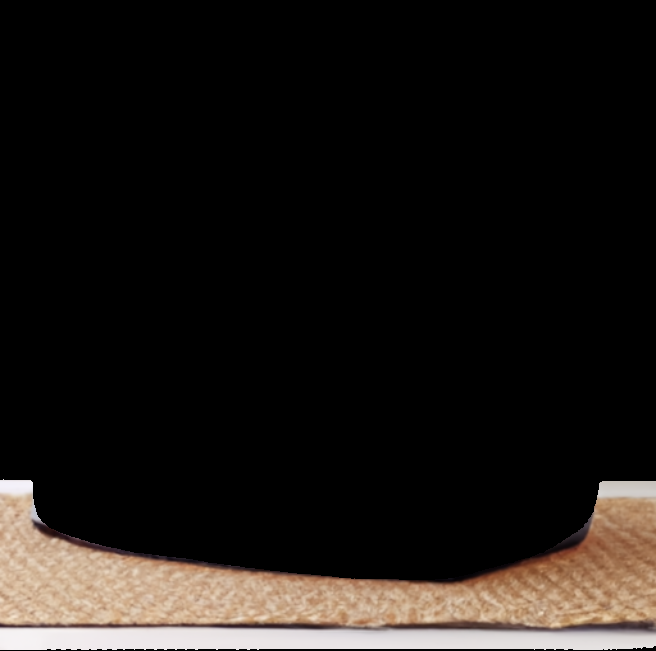
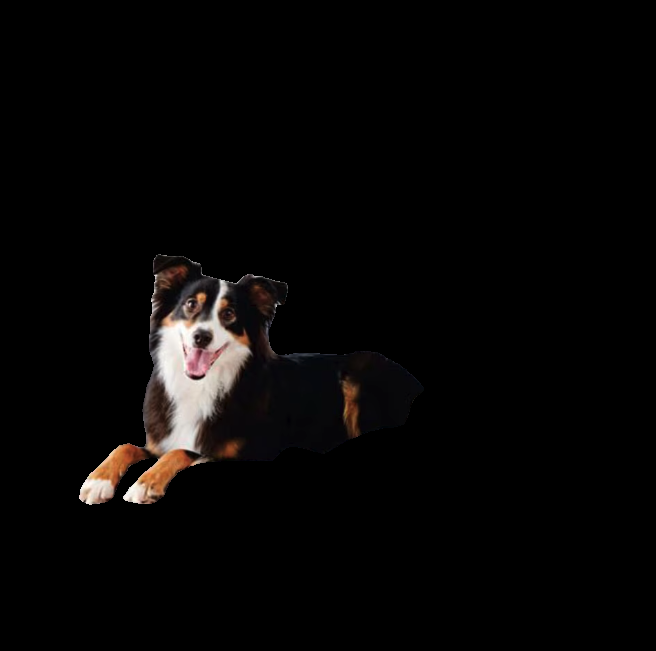
combine

Changed region(s): [[0.0, 0.7373, 1.0, 1.0], [0.122, 0.3994, 0.4878, 0.7988], [0.5183, 0.5837, 0.5488, 0.6759]]

diff --git a/static/script.js b/static/script.js
@@ -1,7 +1,3 @@
-
-
-
-
 const imageInput = document.querySelector('#image_input');
 const imgElement = document.querySelector('#display_image_img');
 const uploadedImageElement = document.querySelector('#uploaded_image');
@@ -162,7 +158,16 @@ if (nextButtonStep1) {
                 var response = JSON.parse(xhr.responseText);
                 if (response.success) {
                   // Images saved successfully, redirect to the next page
-                  window.location.href = '/third-page';
+                  var xhrCombine = new XMLHttpRequest();
+                  xhrCombine.open('POST', '/combine-images', true);
+                  xhrCombine.setRequestHeader('Content-Type', 'application/x-www-form-urlencoded; charset=UTF-8');
+                  xhrCombine.onreadystatechange = function () {
+                    if (xhrCombine.readyState === 4 && xhrCombine.status === 200) {
+                      localStorage.setItem('combinedImageUrl', xhrCombine.responseText);
+                      window.location.href = '/forth-page';
+                    }
+                  }
+                  xhrCombine.send("");
                 } else {
                   // Handle error case
                   console.log('Error: Images could not be saved');
@@ -405,3 +410,13 @@ nextButtonStep3.addEventListener('click', function() {
   });
 });
 
+
+window.addEventListener('load', (event) => {
+  const combinedImageUrl = localStorage.getItem('combinedImageUrl');
+  if (combinedImageUrl) {
+    const imgElement = document.getElementById('uploaded_image'); // replace 'combined_image' with the actual id of your <img> tag
+    if (imgElement) {
+      imgElement.src = combinedImageUrl;
+    }
+  }
+});

diff --git a/templates/forth-page.html b/templates/forth-page.html
@@ -7,9 +7,9 @@
   <title>Predictive Photoshop</title>
 </head>
 <body style="background: #827878;">
-  <h1 style="color:Violet;">Step 4: Edit your Image</h1>
+  <h1 style="color:Violet;">Step 3: Edit your Image</h1>
   <!--<img id="uploaded_image" alt="Uploaded Image" src="" onload="loadUploadedImage()">-->
-
+<!-- 
   <div>
     <label for="grayscale_slider" style="color:Violet">Grayscale: </label>
     <input id="grayscale_slider" type="range" min="0" max="100" value="0">
@@ -28,7 +28,7 @@
   <div>
     <label for="contrast_slider_js" style="color:Violet">Contrast: </label>
     <input id="contrast_slider_js" type="range" min="-100" max="100" value="0">
-  </div>
+  </div> -->
 
   <!-- <form id="diffusion-model-form">
     <input type="text" id="diffusion-model-prompt" name="prompt" required>
@@ -47,6 +47,17 @@
   <button id="save_button" type="button">Save Image</button>
 
 
+  <!-- <script src="{{ url_for('static', filename='script.js') }}"></script> -->
+
+  <!-- Display this combined image when the page loads. Modify your script tag -->
+  <script>
+    window.onload = function() {
+      const combinedImageUrl = "{{ url_for('static', filename='combined.png') }}";
+      document.getElementById('uploaded_image').src = combinedImageUrl;
+    }
+  </script>
+  
   <script src="{{ url_for('static', filename='script.js') }}"></script>
+
 </body>
 </html>

diff --git a/app.py b/app.py
@@ -298,12 +298,12 @@ def edit_dalle1():
     response = requests.get(image_url)
     response.raise_for_status()
 
-    with open("./edited_images/segment2.png", "wb") as file:
+    with open("./dalle_images/dalle_segment2.png", "wb") as file:
         file.write(response.content)
 
     print("Image downloaded successfully.")
 
-    dalle_img = cv2.imread("./edited_images/segment2.png")
+    dalle_img = cv2.imread("./dalle_images/dalle_segment2.png")
     msk = cv2.imread("./segmented_images/segment2.png")
     dalle_img = cv2.resize(dalle_img, (msk.shape[1], msk.shape[0]))
     
@@ -340,12 +340,12 @@ def edit_dalle2():
     response = requests.get(image_url)
     response.raise_for_status()
 
-    with open("./edited_images/segment3.png", "wb") as file:
+    with open("./dalle_images/dalle_segment3.png", "wb") as file:
         file.write(response.content)
 
     print("Image downloaded successfully.")
 
-    dalle_img = cv2.imread("./edited_images/segment3.png")
+    dalle_img = cv2.imread("./dalle_images/dalle_segment3.png")
     msk = cv2.imread("./segmented_images/segment3.png")
     dalle_img = cv2.resize(dalle_img, (msk.shape[1], msk.shape[0]))
 
@@ -361,12 +361,6 @@ def edit_dalle2():
 
     return "dalle edit is done"
 
-
-@app.route('/combine', methods=['GET'])
-def combine():
-    # TODO: get the selected segments from frontend
-    return "combine is done"
-
 @app.route('/run-diffusion-model', methods=['POST'])
 def run_diffusion_model():
     prompt = request.get_json().get('prompt')
@@ -381,6 +375,36 @@ def run_diffusion_model():
     print(output[0])
 
     return jsonify({'success': True})
+
+@app.route('/combine-images', methods=['POST'])
+def combine_images(): 
+    #replacing the black pixels with the corresponding pixels from the other image.
+    print("Combine images-----------------------------")
+    print("-------------------------------------------")
+    path = './edited_images'
+    images = [Image.open(os.path.join(path, i)).convert("RGBA") for i in os.listdir(path) if i.endswith(".png")]
+    
+    # Convert the first image to an np.array
+    combined = np.array(images[0])
+    
+    for img in images[1:]:
+        img_np = np.array(img)
+
+        # Create a mask of where the image is black
+        mask = np.all(img_np == [0, 0, 0, 255], axis=-1)
+        
+        # Where the mask is True, replace with pixels from the combined image
+        img_np[mask] = combined[mask]
+        
+        combined = img_np
+
+    print("shape of combined image in array format: ", combined.shape)
+    # Convert the combined np.array back to an image
+    combined_image = Image.fromarray(combined)
+
+    combined_image.save('static/combined.png')
+    return url_for('static', filename='static/combined.png')
+
 
 
 if __name__ == '__main__':
